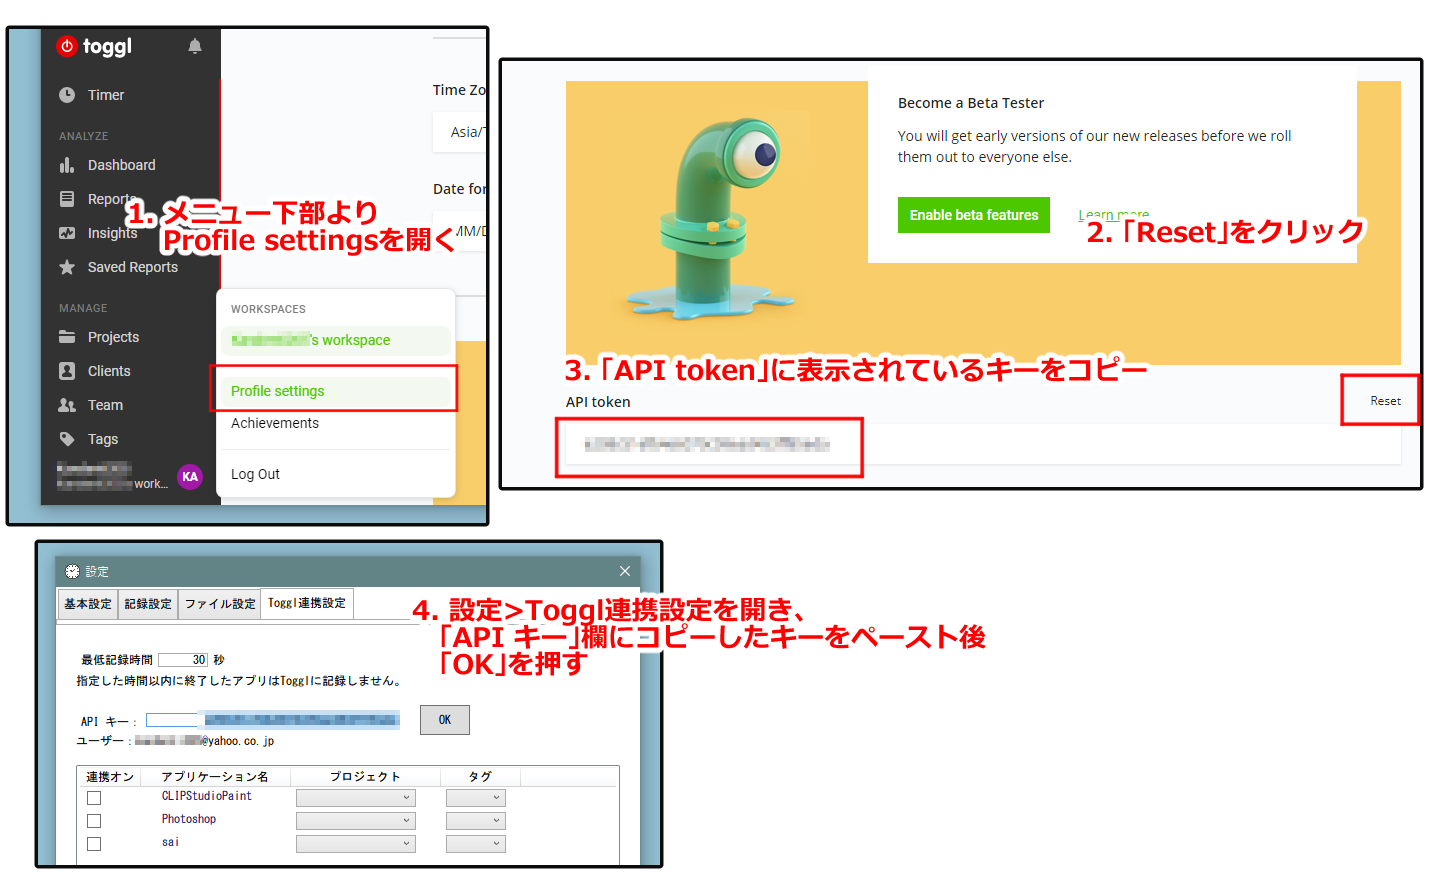
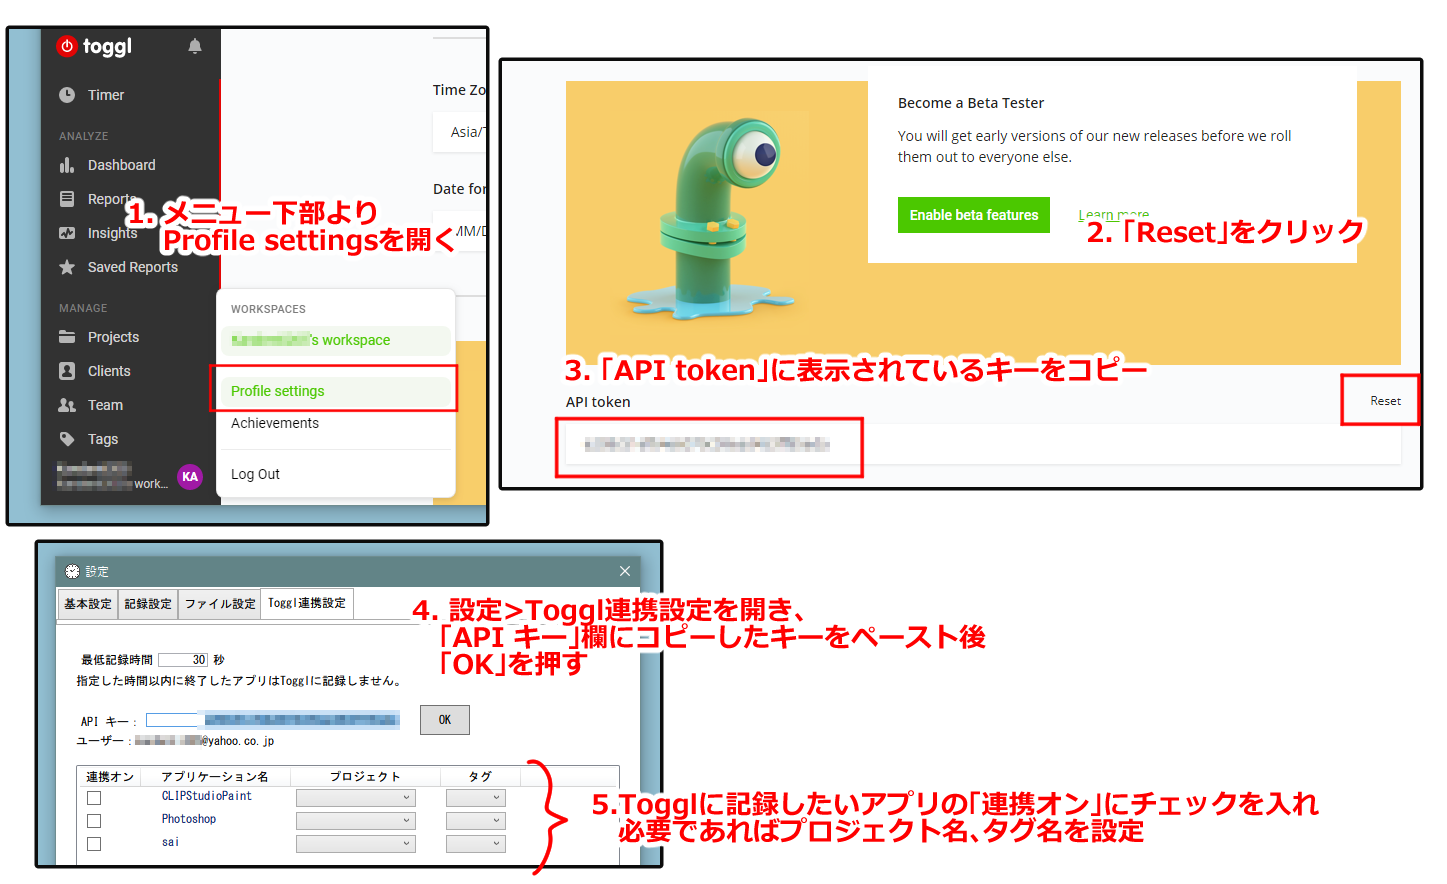
Edit readme.md

Changed region(s): [[0.3732, 0.8857, 0.9019, 0.9774]]

diff --git a/README.md b/README.md
@@ -15,13 +15,13 @@
 - [重要：Clip Studio Paintに関して](#重要clip-studio-paintに関して)
 - [Togglとの連携](#togglとの連携)
     - [連携手順](#連携手順)
-- [注意事項](#注意事項)
+- [注意事項（必ずお読みください）](#注意事項必ずお読みください)
 - [連絡先](#連絡先)
 
 <!-- /TOC -->
-
 # MillionHoursTimer
-MillionHoursTimerは、指定したアプリケーションの起動時間を自動で記録するためのWindows向け常駐型アプリです。開いているファイル名毎に作業時間を記録することや、Togglとの連携によるWeb上でのサマリーレポートの確認が可能です。日々の時間管理やモチベーションの維持等にお役立てください。
+MillionHoursTimerは、指定したアプリケーションの起動時間を自動で記録するためのWindows向け常駐型アプリです。開いているファイル名毎の作業時間の記録や、Togglとの連携によるWeb上での時間の確認が可能です。日々の活動記録やモチベーション管理等にお役立てください。
+
 ![image](./demo.png?raw=true "demo")
 ![image](./demo2.png?raw=true "demo2")
 
@@ -31,27 +31,27 @@ Windows 8/10
 
 # はじめに
 ## インストールと起動方法
-こちらからダウンロードしてください。インストーラー版とインストール不要で使えるバイナリ版の2つがあります。どちらをお使いいただいても構いません。
+[こちら](https://github.com/kanchi0914/MillionHoursTimer/releases)からダウンロードしてください。インストーラー版とインストール不要で使えるバイナリ版の2つがあります。どちらをお使いいただいても構いません。
 ### インストーラー版
 ダウンロード後、Setup.exeよりインストールしてください。``C:\Program Files (x86)``下にファイルが配置されます。インストール後、スタートメニューとデスクトップにショートカットが作成されるので、そちらから起動してください。アンインストールする際は同様にSetup.exeより行っていただくか、コントロールパネル>プログラムのアンインストールより行ってください。
 ### バイナリ版
 ダウンロード後、フォルダを適当な場所に配置したあと、MHTimer.exeから起動してください。削除するときはフォルダごとそのまま削除してください。
 
 ## 終了方法
-本アプリは最小化するか☓ボタンを押すと、タスクトレイに常駐されます。
-<u>終了するときはタスクトレイのアイコンを右クリック>終了　をクリックしてください。</u>
-なお起動後に設定>システム起動時に自動的に起動　のチェックを入れることで、PC起動時に自動で起動することができます。
+本アプリは☓ボタンを押しても終了されず、タスクトレイに常駐されます。
+**終了するときはタスクトレイのアイコンを右クリック>終了　をクリックしてください。**
+なお、起動後に設定>システム起動時に自動的に起動　にチェックを入れることで、PC起動時に自動で起動することができます。
 
 # 使い方
 ## 起動時間の記録
-画面内に表示されているアプリが起動しているとき、起動時間が自動で記録されます。記録中のアプリは背景が赤色で表示されます。
+画面に登録したアプリが起動しているとき、起動時間が自動で記録されます。記録中のアプリは背景が赤色で表示されます。
 起動時間の計測方法には3種類あり、設定から自由に変更できます。
 
 * 起動しているアプリを全て計測  
 バックグラウンドで動作しているものも含め、起動している全てのアプリを計測対象に含めます。設定>記録設定のうち、以下の2つの項目にチェックを入れない場合この設定が適用されます。
 
 * 最小化していないアプリのみ計測する  
-デフォルトの設定です。設定>記録設定>最小化しているアプリケーションを計測しない　にチェックを入れた場合に適用されます。この設定では、最小化しているアプリを計測対象に含めません。
+デフォルトの設定です。設定>記録設定>最小化していないアプリのみ計測する　にチェックを入れた場合に適用されます。この設定では、最小化しているアプリを計測対象に含めません。
 
 * アクティブウィンドウのみを計測する  
 設定>記録設定>アクティブウィンドウのみを計測する　にチェックを入れた場合に適用されます。
@@ -62,37 +62,42 @@ Windows 8/10
 <!-- ![image](./registration.png?raw=true "clip_cmc") -->
 
 ## ファイル別作業時間の記録
-タイトルバーにファイル名+拡張子が表示されるアプリケーションに関しては、ファイル拡張子を設定することで、作業しているファイル別に作業時間を計測することが可能です。
+**作業中のタイトルバーにファイル名+拡張子が表示されるアプリケーション**に関しては、ファイル拡張子を設定することで、作業しているファイル別に作業時間を計測することが可能です。
 リストからアプリ名を右クリック>ファイル拡張子の設定　をクリック後、
 表示されるウィンドウにアプリケーションに応じた拡張子を半角スラッシュ区切りで設定してください。  
 例)イラスト系ソフトの場合  
 `.gif/.jpg/.jpeg/.png/.bmp/.ico/.tif/.tiff/.tga/.psd/.psb/.sai`  
 
-現在のところ、上記の条件でファイル別作業時間の記録が可能なアプリケーションには以下のものを確認しています。<b>なおPhotoshopの場合、一度名前を付けてファイルを保存してからでないとファイル名が表示されませんので注意してください。</b>
+現在のところ、上記の条件でファイル別作業時間の記録が可能なアプリケーションには以下のものを確認しています。
+**なおPhotoshopなど、ソフトによっては一度名前を付けてファイルを保存してからでないとファイル名が表示されませんので注意してください。**
+
 * イラスト、画像編集系ソフト  
 Photoshop(CC 2018)、PaintTool SAI、Gimp
 * エディタ系ソフト  
 VS Code、Atom、Microsoft Word、IntelliJ、サクラエディタ、Terapad、TexStudio
 
-それ以外でも、**タイトルバーにファイル名+ハイフン(-)が表示されるアプリケーション(Wordなど)**
-に関しては、設定>ファイル設定>ハイフン区切りをファイル名の取得に利用する　を有効にした場合にファイル名が記録されます。
+それ以外に、タイトルバーが
+``ファイル名 - アプリケーション名 ``
+の形で表示されるアプリに関しては、設定>ファイル設定>ハイフン区切りをファイル名の取得に利用する　を有効にしている場合、上記「ファイル名」の部分が記録されます。この設定はデフォルトで有効になっています。
 
 なお、ファイル名でデータを区別しているため、途中でファイル名を変更すると別のデータとして保存されることに注意してください。
 
 # 重要：Clip Studio Paintに関して
-Clip Studio Paintでは仕様上、メインウィンドウのタイトルバーにファイル名が表示されないため、そのままではファイル名の取得ができません。この場合、下図に示すように<u><b>「ページ管理ウィンドウ」もしくは「ストーリーエディター」のいずれかを、Clip Studio Paintのメインウィンドウからフローティングし別ウィンドウで表示する</b></u>ことで、記録が可能になります。この場合、設定>ファイル設定>ファイル名をスペースで区切る　を有効にすることをお勧めします（デフォルトで有効になっています）。
+Clip Studio Paintでは仕様上、メインウィンドウのタイトルバーにファイル名が表示されないため、そのままではファイル名の取得ができません。この場合、下図に示すように
+**「ページ管理ウィンドウ」もしくは「ストーリーエディター」のいずれかを、Clip Studio Paintのメインウィンドウからフローティングし別ウィンドウで表示する**
+ことで、記録が可能になります。この場合、設定>ファイル設定>ファイル名をスペースで区切る　を有効にすることをお勧めします（デフォルトで有効になっています）。
 
-<u>なお、「最小化していないアプリのみ計測する」または「アクティブウィンドウのみを計測する」設定を有効にしている場合で、フローティングしたウィンドウを最小化すると、ファイル名が記録されなくなります。</u>フローティングしたウィンドウを最小化しておきたい場合は、設定>ファイル設定>ファイル名表示ウィンドウの計測条件を無視　を有効にしてください。
+なお、**「最小化していないアプリのみ計測する」または「アクティブウィンドウのみを計測する」設定を有効にしている場合で、フローティングしたウィンドウを最小化すると、ファイル名が記録されなくなります。**
+フローティングしたウィンドウを最小化しておきたい場合は、設定>ファイル設定>ファイル名表示ウィンドウの計測条件を無視　を有効にしてください。この設定を有効にすると、ファイル名ごとの記録設定は親ウィンドウ（Clip Studio Paintのメインウィンドウ）の状態に従います。
 
 ![image](./clipstudioSetting.png?raw=true "clip_window")
 
-現時点では、記録できるのは作品ごとの作業時間に限られます。<u>複数ページファイルのうち
-特定のページのみ記録する方法に関しては、現在のところありません。</u>もし要望があれば今後対応する可能性はあります。
+現時点では、記録できるのは作品ごとの作業時間に限られます。
+**複数ページファイルのうち個別ページ毎に時間を記録する方法に関しては、現在のところありません。**
+おそらく今後も対応は難しいと思われます。
 
 # Togglとの連携
-<!-- 記録は、インストーラー版なら``C:\Program Files (x86)\MHTimer\data``フォルダに、バイナリ版なら
-``MHTimer\data``フォルダに保存されますが、 -->
-<u>継続して記録をつける場合、時間管理用Webサービス、[Toggl](https://toggl.com)との連携を強くお勧めします。</u>
+継続して記録をつける場合、時間管理用Webサービス[Toggl](https://toggl.com)との連携を強くお勧めします。
 
 ## 連携手順
 アカウントがない場合は登録していただき、上記URLよりブラウザからTogglアカウントにログイン後、以下の手順で連携を行ってください。
@@ -101,25 +106,25 @@ Clip Studio Paintでは仕様上、メインウィンドウのタイトルバー
 2. 画面最下部に表示されている「API token」について、右側のResetボタンを押す(省略可能です。認証が失敗する場合にお試しください)
 3. 表示されているキーをコピー
 4. 設定>Toggl連携設定　のAPI キー欄にコピーした内容を貼り付け後、OKボタンを押す
-
-4.を実行後、「認証が完了しました」と表示され、登録したメールアドレスが表示されれば連携完了です。
+5. 下部リストからToggl上に記録したいアプリにチェックを入れ、必要に応じてプロジェクトとタグを設定
 
 ![image](./togglSetting.png?raw=true "toggl_setting")
 
-連携後、記録しているアプリが終了されたとき、Togglアカウントににアプリの実行時間が送信されます。
+「連携オン」にしたアプリが終了されたとき、Togglアカウントににアプリの実行時間が送信されます。
 実際にToggl上で時間が記録されていることをご確認ください。
 
 ![image](./timeEntry.png?raw=true "toggl_display")
 
-各アプリにはそれぞれ、「プロジェクト」と「タグ」を設定することができます。設定>Toggl連携設定　の下部リストより設定してください。その他Togglの使い方については[公式ドキュメント](https://support.toggl.com/en/)をご覧ください。
+その他Togglの使い方については[ドキュメント](https://support.toggl.com/en/)をご覧ください。
 
-# 注意事項
-- <b>当アプリで発生したいかなる不具合に関しても、開発者は一切の責任を負いません。あくまでも使用は自己責任でお願いいたします。</b>
-- 管理者権限でアプリを実行した場合、ドラッグアンドドロップによるアプリの追加は行なえません。
+# 注意事項（必ずお読みください）
+- **当アプリで発生したいかなる不具合に関しても、開発者は一切の責任を負いません。あくまでも使用は自己責任でお願いいたします。**
+- デフォルトでは毎秒時間を計測する設定になっていますが、それなりにCPUリソースを消費するため、もしPCに負担がかかるようであれば設定>記録設定>カウント間隔　の秒数を増やしてください。
+- 管理者権限でアプリを実行した場合、ドラッグアンドドロップによるアプリの追加は行えません。
 - MHTimer.exeをクリックしても起動できない場合、一度管理者権限で実行してから終了後、再度実行してみてください。それでも実行ができない場合、申し訳ありませんが開発者までご連絡ください。
 - 記録するアプリによってはうまく記録が行えない場合があります。現在確認している例として以下のものが存在します。
   - 「Kindle for PC」を起動時、「最小化していないアプリのみ計測する」を有効にしても、最小化時に記録が継続されることがある
 - バイナリ版をご利用の場合、アプリを削除する際には「システム起動時に自動的に起動」を無効にしてから削除することをお勧めします。
 
 # 連絡先
-バグ報告やご意見を頂ける場合は、Issuesか作者Twitter(@kanchi0914)までご連絡ください。
+バグ報告やご意見を頂ける場合は、Issuesか開発者Twitter(@kanchi0914)までご連絡ください。
